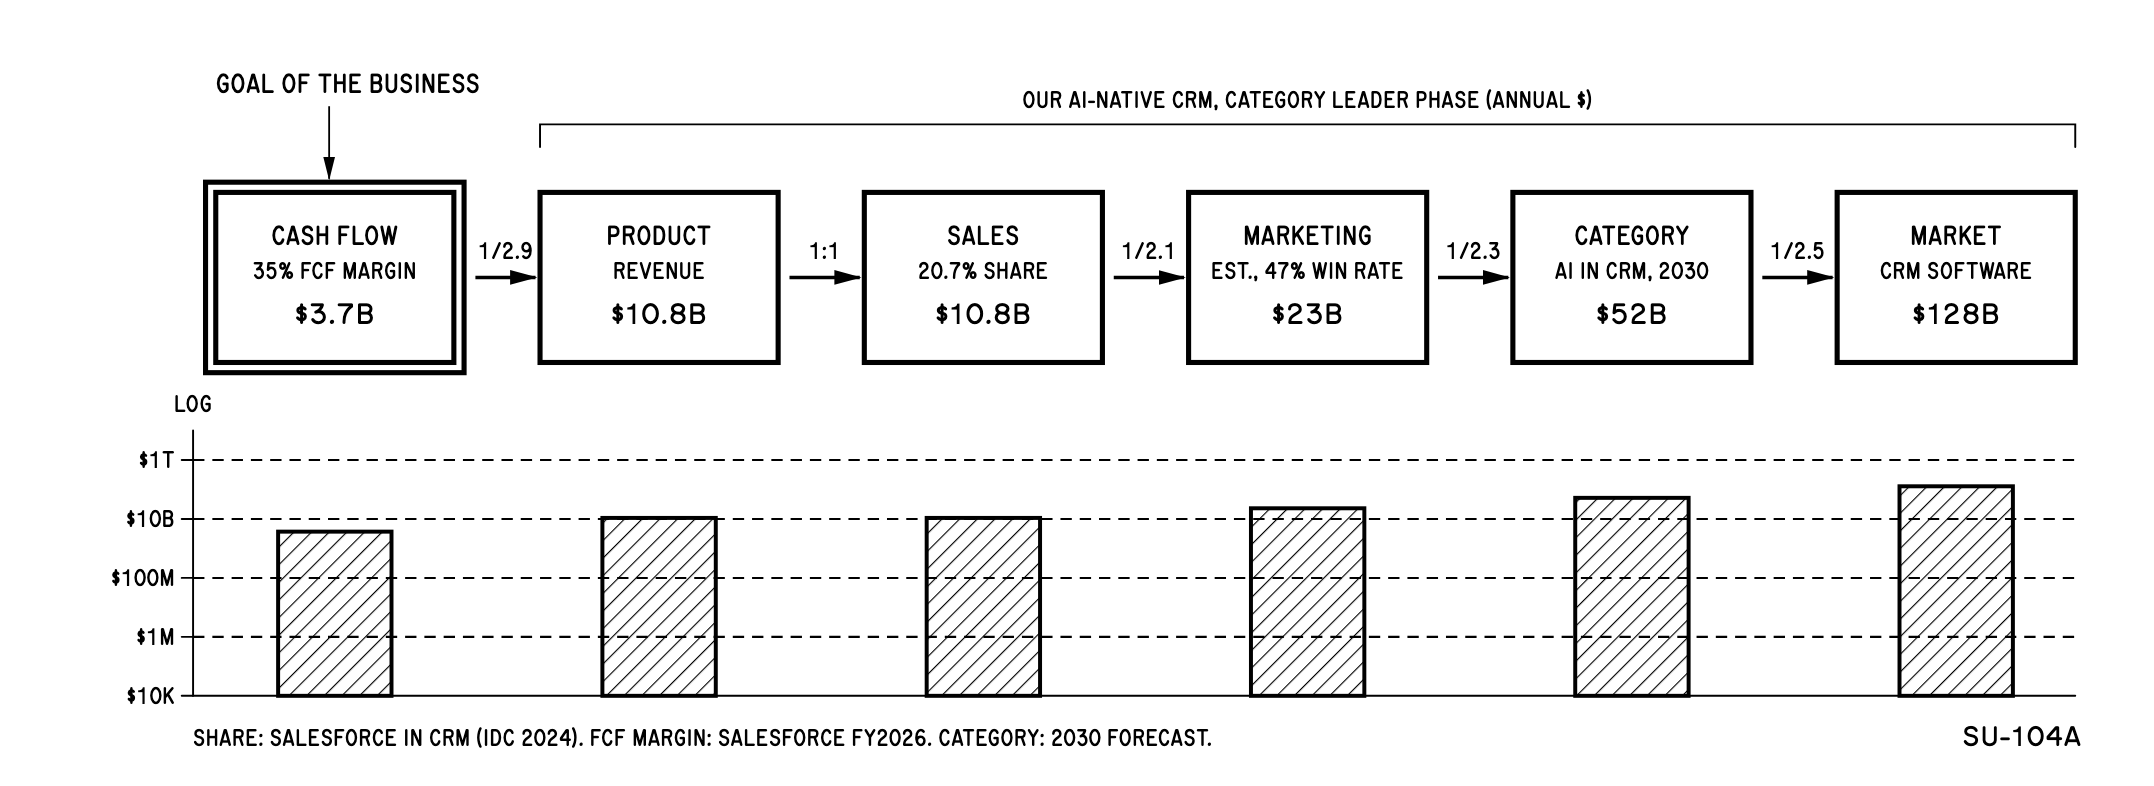
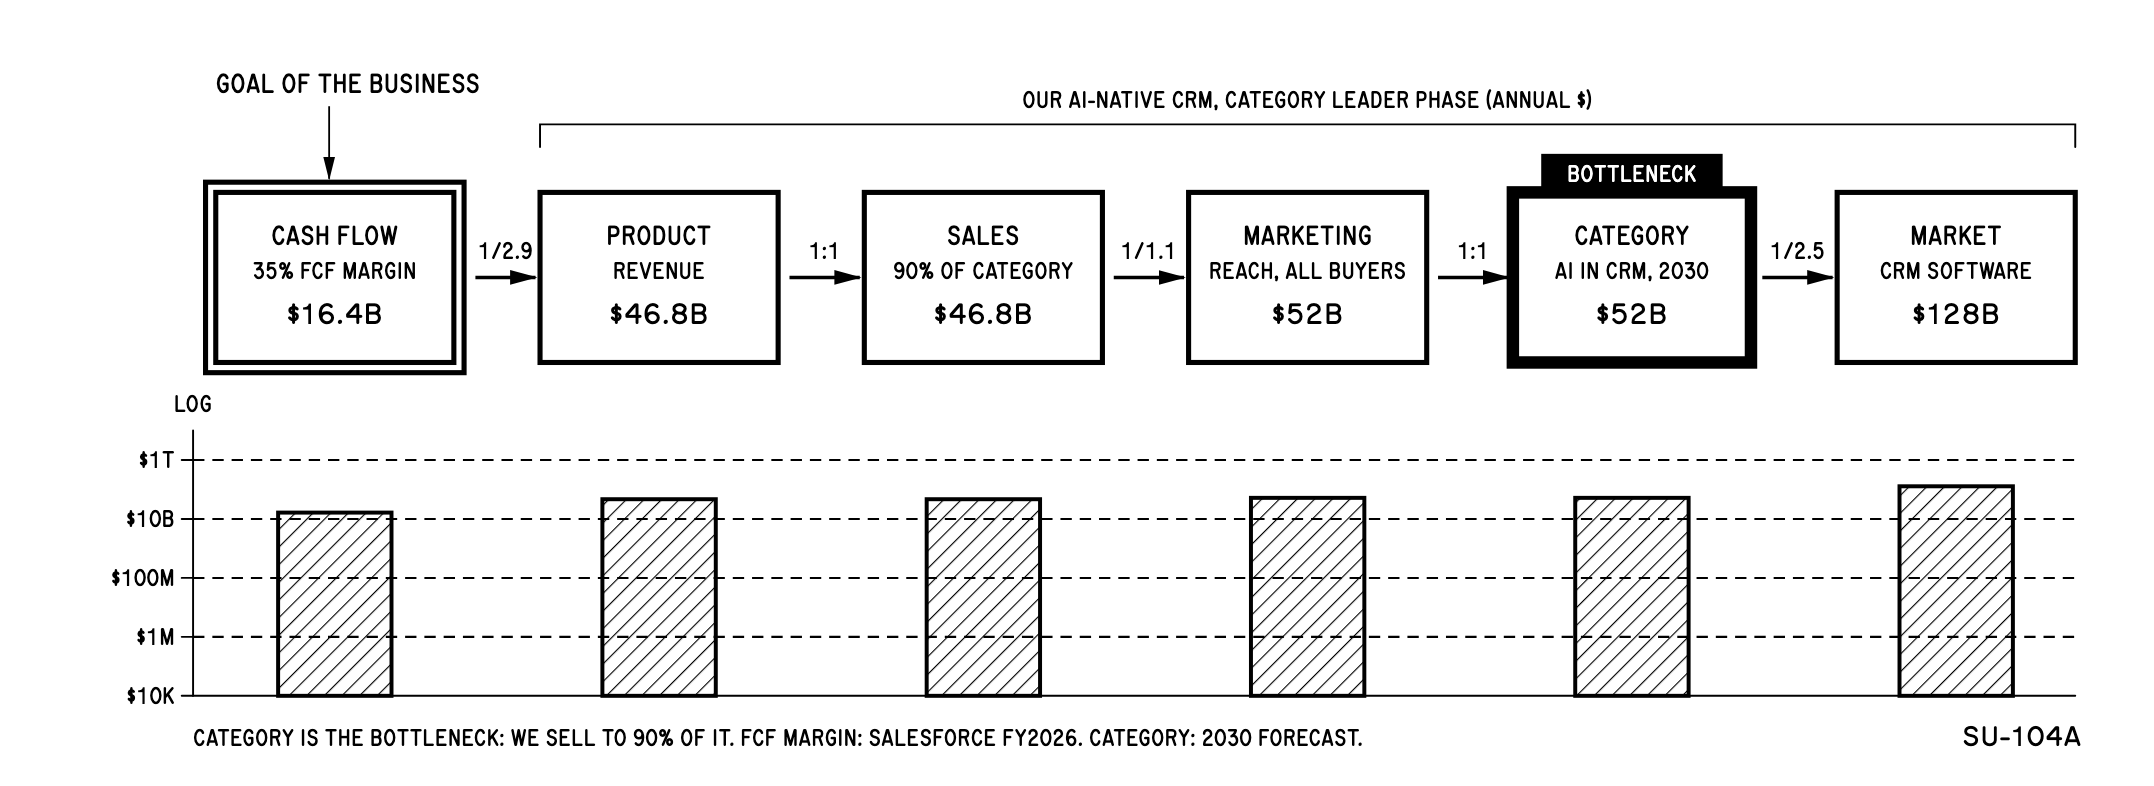
feat: new blog post about building a company

diff --git a/priv/content/posts/2026/11-25-constraints-building-startup.md b/priv/content/posts/2026/11-25-constraints-building-startup.md
@@ -1,68 +1,91 @@
 %{
   title: "Theory of constraints and building a startup",
   tags: ~w(startup),
-  description: "How to apply the theory of constraints to build a startup and where to focus on first. Tldr: Sell first before building.",
+  description: "How to apply the theory of constraints to build a startup and where to focus first. TL;DR: Sell first before building.",
   draft: true
 }
 
 ---
 
-The theory of constraints from the book [The Goal](https://en.wikipedia.org/wiki/The_Goal_(novel)) talks about how to improve the throughput of a system. It's says that the throughput of a system is limited by slowest link in the chain, called the bottleneck. The example given in the book is a about a line of boy scouts going for a trek. The pace of the line is determined by the slowest boy in the group, irrespective of his position. He is the bottleneck. The book outlines the strategies to improve the throughput of the bottleneck and how this helps to improve the throughput of the whole, relating to a manufacturing plant.
+The theory of constraints from the book [The Goal](https://en.wikipedia.org/wiki/The_Goal_(novel)) talks about how to improve the throughput of a system. It says that the throughput of a system is limited by the slowest link in the chain, called the bottleneck. The example given in the book is about a line of boy scouts going on a trek. The pace of the line is determined by the slowest boy in the group, irrespective of his position. He is the bottleneck. The book outlines strategies to improve the throughput of the bottleneck and how this improves the throughput of the whole, relating it to a manufacturing plant.
 
 ## Building a startup
-Before we can optimize the process of building a startup, we have to find, what is the goal of a startup and by it's extension a business. The goal of a business is to generate free cash flow for it's owners.
+Before we can optimize the process of building a startup, we have to find out what the goal of a startup, and by extension a business, is. The goal of a business is to generate free cash flow for its owners.
 
 The process of getting to cash flow is as follows.
 ![Process of getting to cash flow: cash flow, product, sales, marketing, category, market](/images/cash-flow-chain.png)
 
-Since these steps are interdependent on each other, we cannot change the order. The only control we have is over the througput of every step. The best thing about building software is that the product will never be bottlenecked, we can scale to n demand easily and without constraints. This means what we need to optimize is on the right side of product.
+Since these steps are interdependent, we cannot change the order. The only control we have is over the throughput of every step.
 
 ## Market
-The cash flow is determined most by your market. The market that you chose dictactes how big you can become, how easy it would be to sell and how much fun you will have building the company. Always choose a big market or a small but exponentially growing market. Never choose a small or shrinking market, unless you want to build a lifestyle business. Choose a market where a lot of economic activity takes place, ideally where there is a lot of demand, but not much supply, the characteristics of a small but fast growing market.
+The cash flow is determined most by your market. The market that you choose dictates how big you can become, how easy it will be to sell and how much fun you will have building the company. Always choose a big market or a small but exponentially growing market. Never choose a small or shrinking market, unless you want to build a lifestyle business. Choose a market where a lot of economic activity takes place, ideally where there is a lot of demand but not much supply, the characteristics of a small but fast-growing market.
 
 ## Category
-After you have chosen the market, now it's time to choose the category that you will be the leader in. Salesforce is in the CRM market, but it's in the category of SaaS CRMs, if it was just building another coloacted CRM it would never have been as big as it is now. You have to find a category in the market where you can dominate. Find a category with preferably latent demand or present demand.
+After you have chosen the market, it's time to choose the category that you will be the leader in. Salesforce is in the CRM market, but it's in the category of SaaS CRMs. If it were just building another colocated CRM, it would never have become as big as it is now. You have to find a category in the market that you can dominate, preferably one with latent or present demand.
 
-This is argubly the most improtant choice you will take, with more importance that the market that you choose. The category of demand that you have decided to serve.
+This is arguably the most important choice you will make, even more important than the market that you choose: the category of demand that you decide to serve.
 
 ## Marketing
-After you have decided a category where you will be the category leader, it's time for marketing.
-Marketing determines how many people you talk to, how many people know about you and how many people want to buy from you. Improve this bottleneck by letting people know you and your category exists and reaching out with outbound, advertising and other way to reach your prospective customers with demand. It's goal is to let people with demand know that you have a supply.
+After you have decided on a category where you will be the category leader, it's time for marketing.
+Marketing determines how many people you talk to, how many people know about you and how many people want to buy from you. Improve this bottleneck by letting people know that you and your category exist, and by reaching out with outbound, advertising and other ways to reach prospective customers with demand. Its goal is to let people with demand know that you have the supply.
 
 ## Sales
-Sales is how you get paid. Sales are conversations with intent to sell. You need to ask people to pay for your product. They will be begging you to pay if you have found out the demand.
+Sales is how you get paid. Sales are conversations with the intent to sell. You need to ask people to pay for your product. They will be begging to pay you if you have found the demand.
 
-For B2C demand this is the onboarding flow of the product, and will be much more closer to the marketing demand than B2B.
+For B2C demand, this is the onboarding flow of the product, and it will be much closer to the marketing demand than in B2B.
 
 ## Product
-Since you have recieved payment, it's time to build the supply to fulfill the demand. This is where you build out the product. If the product does not satisfy the demand that was uncovered in sales, we might have to refund the cash that we collected. This is also the phase where most people start, but as we can see from the constraints, it doesn't matter what kind of product we are building, if we do not have a pipelines of demand with money to satisfy the excess capacity of building the product will always be idle and more than that a waste.
+Since you have received payment, it's time to build the supply to fulfill the demand. This is where you build out the product. If the product does not satisfy the demand that was uncovered in sales, we might have to refund the cash that we collected. This is also the phase where most people start, but as we can see from the constraints, it doesn't matter what kind of product we are building. If we do not have a pipeline of demand with money to satisfy, the excess capacity of the product will always be idle, and worse, wasted.
 
 ## Cash flow
-Once you have delivered the product, the cash becomes yours. That is how you improve cashflow.
+Once you have delivered the product, the cash becomes yours. That is how you improve cash flow.
 
 
-As each step follows through the amount of money that comes through each step reduces. The goal is to methodologically improve the bottlenecks, where the most amount of cash falloff happens as you stay more and more in business.
+As we move through each step, the amount of money that comes through it reduces. The goal is to methodically improve the bottlenecks where the most cash falls off, as you stay in business longer and longer.
 
 Let's see how constraints and bottlenecks behave as we move through each phase of the business, with the example of building an AI-native CRM.
 
-## Pre startup phase
+## Pre-startup phase
 ![Our AI-native CRM, pre-startup phase: only the CRM market is known at $128B; category, marketing, sales, product and cash flow are unknown](/images/cash-flow-prestartup.png)
 
-This is the pain curve of startups, where you do not have any information about the bottlenecks and constraints of the system. We just know the total market of CRM software in the world, published by research firms. We do not yet know the demand that we intend to serve, the category that we will dominate, how much that category has funding in,  how much of that demand we can reach, how much we can sell to and how much product we need to build to cater to that demand. 
+This is the pain curve of startups, where you do not have any information about the bottlenecks and constraints of the system. We just know the total market for CRM software in the world, as published by research firms. We do not yet know the demand that we intend to serve, the category that we will dominate, how much funding that category has, how much of that demand we can reach, how much we can sell and how much product we need to build to cater to that demand.
 
-The singular constraint to optimize in this stage is information. We need information about the demand, how much the demand is worth and how much of the demand we can serve. Most founders focus on product here, whereas they should be focused on gathering information. As we can see there is no information on what our constraints are. If we build a product that can serve $500M of demand, but we later find out that our category only has $50M of demand, we have wasted time, money and resources optimizing something that does not affect the throughput of the system or help us move towards the goal.
+The singular constraint to optimize in this stage is information. We need information about the demand, how much the demand is worth and how much of the demand we can serve. Most founders focus on the product here, whereas they should be focused on gathering information. As we can see, there is no information on what our constraints are. If we build a product that can serve $500M of demand, but later find out that our category only has $50M of demand, we have wasted time, money and resources optimizing something that does not affect the throughput of the system or help us move towards the goal.
 
-The first constraint we need to optmize is to find out the category that we need to build in. We talk to our founder friends, we play around with LLMs and we go to sales conferences and we find out that there is a latent demand of AI in CRMs. We find out a lot of traditional CRM software has a lot of manual workflows that we can improve with AI and it's only going to improve as we get more capable agents down the line. We calculate the category demand as the amount of time sales persons spend doing manual work and divide it by time they work and how much money they make and divide it by half to get an approximate amount of money in the category.
+The first constraint we need to optimize is finding the category that we need to build in. We talk to our founder friends, we play around with LLMs, we go to sales conferences, and we find out that there is latent demand for AI in CRMs. We find out that a lot of traditional CRM software has manual workflows that we can improve with AI, and it's only going to get better as we get more capable agents down the line. We calculate the category demand by taking the time salespeople spend doing manual work, dividing it by the total time they work, multiplying by how much money they make and halving the result to get an approximate amount of money in the category.
 
 ![Our AI-native CRM, pre-startup phase with the category chosen: CRM market $128B and AI in CRM category $11B are known; marketing, sales, product and cash flow are unknown](/images/cash-flow-category.png)
 
-## Startup phase
-![Our AI-native CRM, startup phase: CRM market $128B, AI in CRM category $11B, marketing about $480K, sales $100K, product $50K, cash flow $50K](/images/cash-flow-startup.png)
+We then tap into our network, post on LinkedIn and Twitter, reach out with outbound, and come to the conclusion that as a solo founder I can generate $480K worth of marketing inbound.
 
-In the startup phase, you have chosen to build an AI-native CRM in the CRM market. The market and category are two places where you do not have control to improve, you can only change it. Now it's upto us to 
+Then I move on to sales, scheduling conversations with the intent to sell. I close $100K in sales with four pilot customers, as I found PULL in the market and our solution resonates with them.
+
+While building the product, I figure out that I cannot serve two customers without engineering investment. So I figure out that the product is the bottleneck, and I raise funds to hire two engineers, who build the product to satisfy the existing demand but also produce excess capacity, bringing the product to $200K.
+
+## Startup phase
+![Our AI-native CRM, startup phase: CRM market $128B, AI in CRM category $11B, marketing reach about $480K, sales $100K (the bottleneck), product $200K ($100K sold, $100K excess capacity), cash flow $100K](/images/cash-flow-startup.png)
+
+We have an annual cash flow of $100K. How do we improve it? We can raise more funds and invest more in engineering, but then the excess capacity will be sitting idle. We can raise funds and invest in marketing, but then we will be bottlenecked by sales. So we hire an extra salesperson and improve our sales capacity to $300K.
+
+
+![Our AI-native CRM, startup phase after adding a salesperson: CRM market $128B, AI in CRM category $11B, marketing reach about $480K, sales capacity $300K ($200K delivered, $100K excess), product $200K (the bottleneck), cash flow $200K](/images/cash-flow-startup-sales.png)
+
+We invest more in engineering, bringing its capacity to $800K, and then in sales, bringing its capacity to $500K. That is when we invest in marketing: we start writing blog posts, recording podcasts and doing PR outreach to news agencies. This brings our marketing reach to $1M. This shifts the bottleneck back to sales.
+
+![Our AI-native CRM, startup phase after investing in marketing: CRM market $128B, AI in CRM category $11B, marketing reach $1M, sales capacity $500K (the bottleneck), product $800K ($500K sold, $300K excess capacity), cash flow $500K](/images/cash-flow-startup-marketing.png)
+
+This is how we incrementally improve the throughput of the system: we find the bottleneck and invest in it, or improve the process so that it can keep up with demand. When the bottleneck shifts, we find the new bottleneck and improve it.
 
 ## Mid-market phase
-![Our AI-native CRM, halfway to category leader: CRM market $128B, AI in CRM category $52B, marketing about $22B, sales $5.2B, product $5.2B, cash flow $990M](/images/cash-flow-halfway.png)
+![Our AI-native CRM, halfway to category leader: CRM market $128B, AI in CRM category $52B, marketing reach about $22B, sales $5.2B, product $5.2B, cash flow $990M](/images/cash-flow-halfway.png)
+
+We are growing at an incredible rate and going through the cycle of improving the bottlenecks. We are emerging as the category leader.
 
 ## Category leader phase
-![Our AI-native CRM, category leader: CRM market $128B, AI in CRM category $52B, marketing about $23B, sales $10.8B, product $10.8B, cash flow $3.7B](/images/cash-flow-leader.png)
+![Our AI-native CRM, category leader: CRM market $128B, AI in CRM category $52B (the bottleneck), marketing reach $52B (all buyers in the category), sales $46.8B (90% of the category), product $46.8B, cash flow $16.4B](/images/cash-flow-leader.png)
+
+We are the undisputed category leader in this space, reaching 90% market penetration. Now the bottleneck is the category itself, so we move on to new categories or to a bigger category. We repeat this process to dominate that market as well.
+
+![Our company after moving to a bigger category: total sales spend market $2.4T, GTM copilots category $240.6B, marketing reach $52B (the new bottleneck), sales $46.8B, product $46.8B, cash flow $16.4B](/images/cash-flow-new-category.png)
+
+Now we need to improve the marketing spend, change our messaging, create new campaigns and improve our messaging. We repeat the cycle again and we dominate the category.
